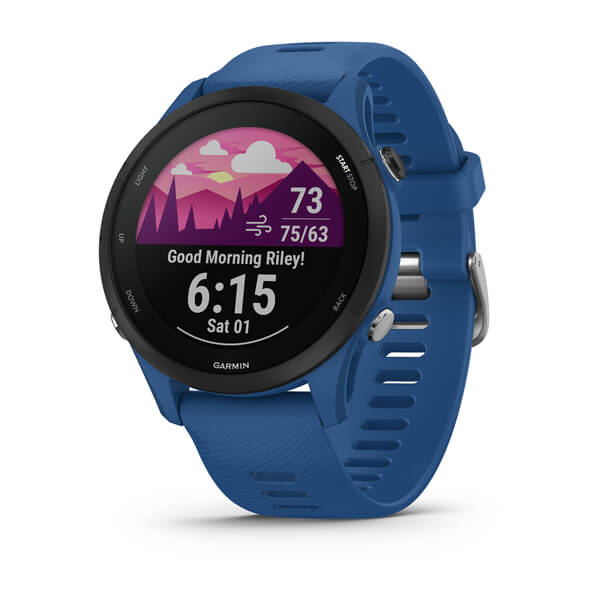
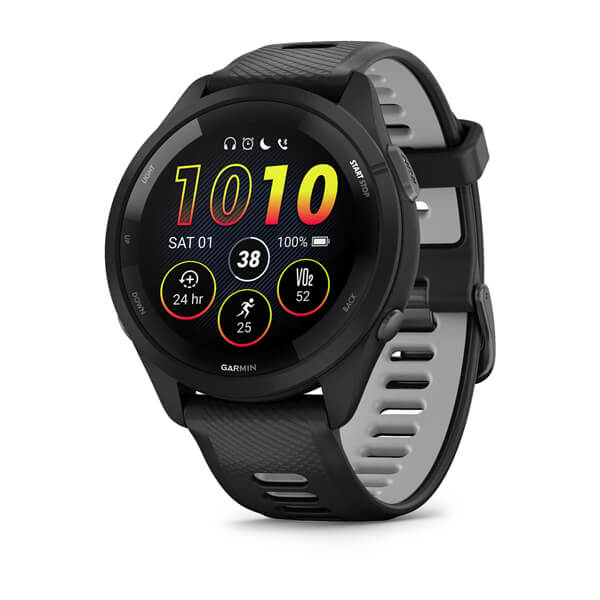
Fix device images: better photos, dark theme CSS treatment
- Replace WHOOP with official press release image (colorful bands lineup)
- Replace Garmin with black Forerunner 265 variant
- Compress WHOOP image from 1.6MB to 19KB
- Add dark gradient background to all image containers
- Add radial vignette overlay to blend any background seamlessly
- Per-device brightness/contrast/saturation tuning
- Images darken by default, brighten on hover for interactive feel
- object-fit: cover for consistent cropping
- Increase container size to 120px for more visual impact
- Fix responsive border-radius for vignette overlay

diff --git a/index.html b/index.html
@@ -1790,9 +1790,9 @@
         }
 
         .device-img-wrap {
-            width: 110px; height: 110px;
-            border-radius: 28px;
-            background: rgba(255,255,255,0.03);
+            width: 120px; height: 120px;
+            border-radius: 30px;
+            background: linear-gradient(145deg, rgba(30,30,45,0.9), rgba(15,15,25,0.95));
             border: 1px solid rgba(255,255,255,0.08);
             display: flex; align-items: center; justify-content: center;
             overflow: hidden;
@@ -1800,6 +1800,17 @@
             -webkit-backdrop-filter: blur(20px);
             transition: all 0.5s cubic-bezier(0.16, 1, 0.3, 1);
             position: relative;
+        }
+
+        /* Vignette overlay */
+        .device-img-wrap::before {
+            content: '';
+            position: absolute;
+            inset: 0;
+            border-radius: 30px;
+            background: radial-gradient(circle at center, transparent 40%, rgba(10,10,18,0.7) 100%);
+            z-index: 1;
+            pointer-events: none;
         }
 
         .device-img-wrap::after {
@@ -1812,18 +1823,43 @@
             border: 2px solid rgba(5,5,7,0.8);
             box-shadow: 0 0 8px rgba(86,191,181,0.5);
             animation: devicePing 2.5s ease-in-out infinite;
-            z-index: 2;
+            z-index: 3;
         }
 
         .device-img-wrap img {
-            width: 85%; height: 85%;
-            object-fit: contain;
-            filter: brightness(0.95) contrast(1.05);
-            transition: transform 0.5s cubic-bezier(0.16, 1, 0.3, 1);
+            width: 100%; height: 100%;
+            object-fit: cover;
+            filter: brightness(0.85) contrast(1.1) saturate(0.9);
+            transition: all 0.5s cubic-bezier(0.16, 1, 0.3, 1);
         }
 
         .device-node:hover .device-img-wrap img {
-            transform: scale(1.08);
+            transform: scale(1.1);
+            filter: brightness(1) contrast(1.05) saturate(1);
+        }
+
+        /* Per-device image adjustments */
+        .device-node[data-idx="0"] .device-img-wrap img { /* Apple Watch - already dark bg */
+            filter: brightness(0.9) contrast(1.1) saturate(1);
+        }
+        .device-node[data-idx="1"] .device-img-wrap img { /* WHOOP - has gradient bg */
+            filter: brightness(0.8) contrast(1.1) saturate(0.85);
+        }
+        .device-node[data-idx="2"] .device-img-wrap img { /* Oura - light bg */
+            filter: brightness(0.7) contrast(1.2) saturate(0.9);
+        }
+        .device-node[data-idx="3"] .device-img-wrap img { /* RingConn - light bg */
+            filter: brightness(0.7) contrast(1.2) saturate(0.9);
+        }
+        .device-node[data-idx="4"] .device-img-wrap img { /* Garmin - light bg */
+            filter: brightness(0.8) contrast(1.15) saturate(0.9);
+        }
+        .device-node[data-idx="5"] .device-img-wrap img { /* Withings - dark bg already */
+            filter: brightness(0.85) contrast(1.1) saturate(0.9);
+        }
+
+        .device-node:hover .device-img-wrap img {
+            filter: brightness(1.05) contrast(1.05) saturate(1.1) !important;
         }
 
         /* Data streaming line from device */
@@ -2023,13 +2059,15 @@
 
         @media (max-width: 1000px) {
             .dataflow-container { height: 600px; }
-            .device-img-wrap { width: 90px; height: 90px; border-radius: 22px; }
+            .device-img-wrap { width: 96px; height: 96px; border-radius: 24px; }
+            .device-img-wrap::before { border-radius: 24px; }
             .insight-grid { grid-template-columns: 1fr; }
         }
 
         @media (max-width: 600px) {
-            .dataflow-container { height: 500px; }
-            .device-img-wrap { width: 70px; height: 70px; border-radius: 18px; }
+            .dataflow-container { height: 480px; }
+            .device-img-wrap { width: 72px; height: 72px; border-radius: 18px; }
+            .device-img-wrap::before { border-radius: 18px; }
             .device-label { font-size: 10px; }
             .device-sublabel { display: none; }
             .hub-core { width: 100px; height: 100px; border-radius: 24px; }
